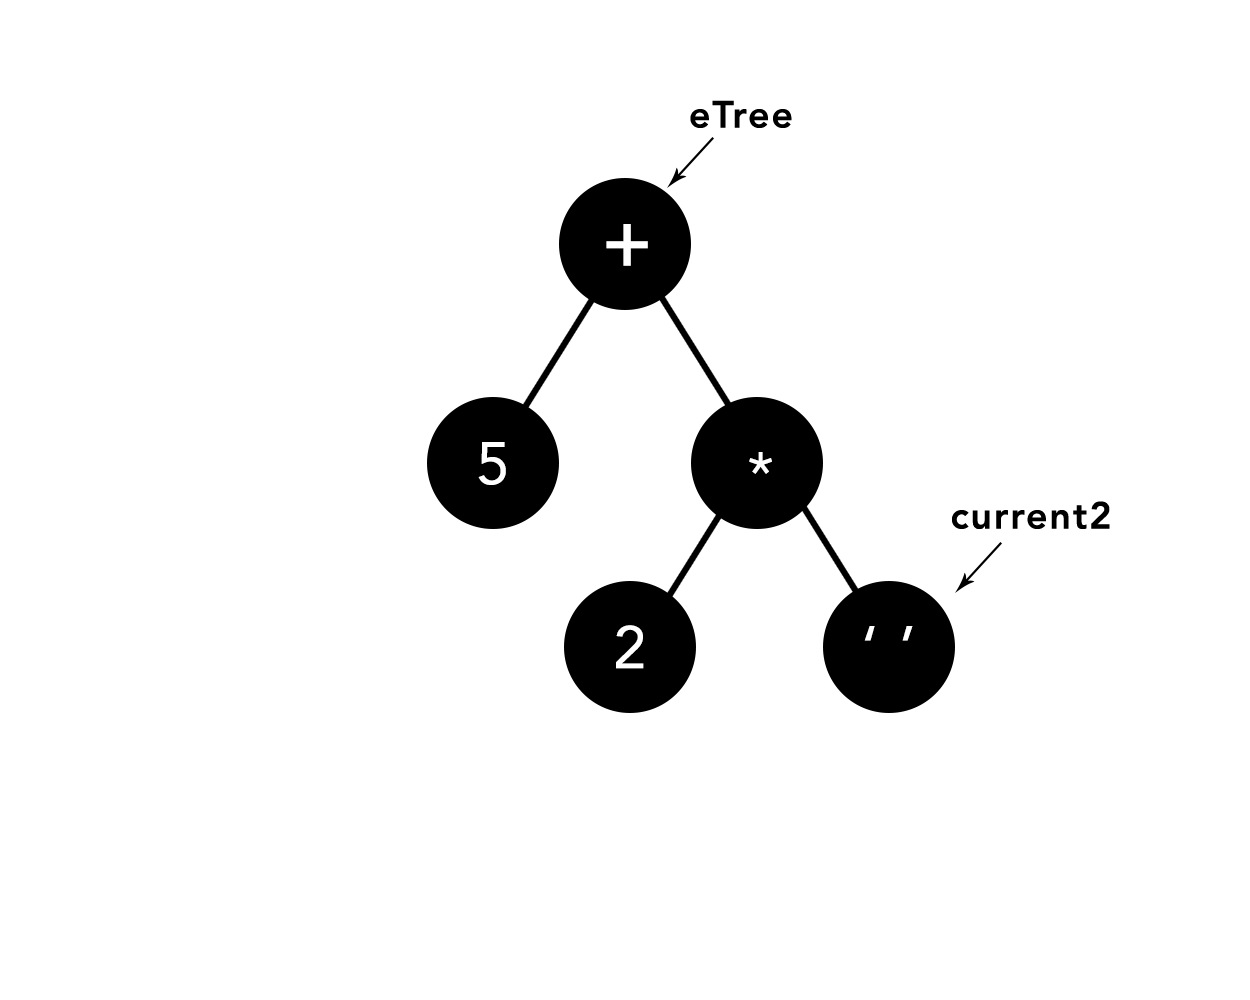
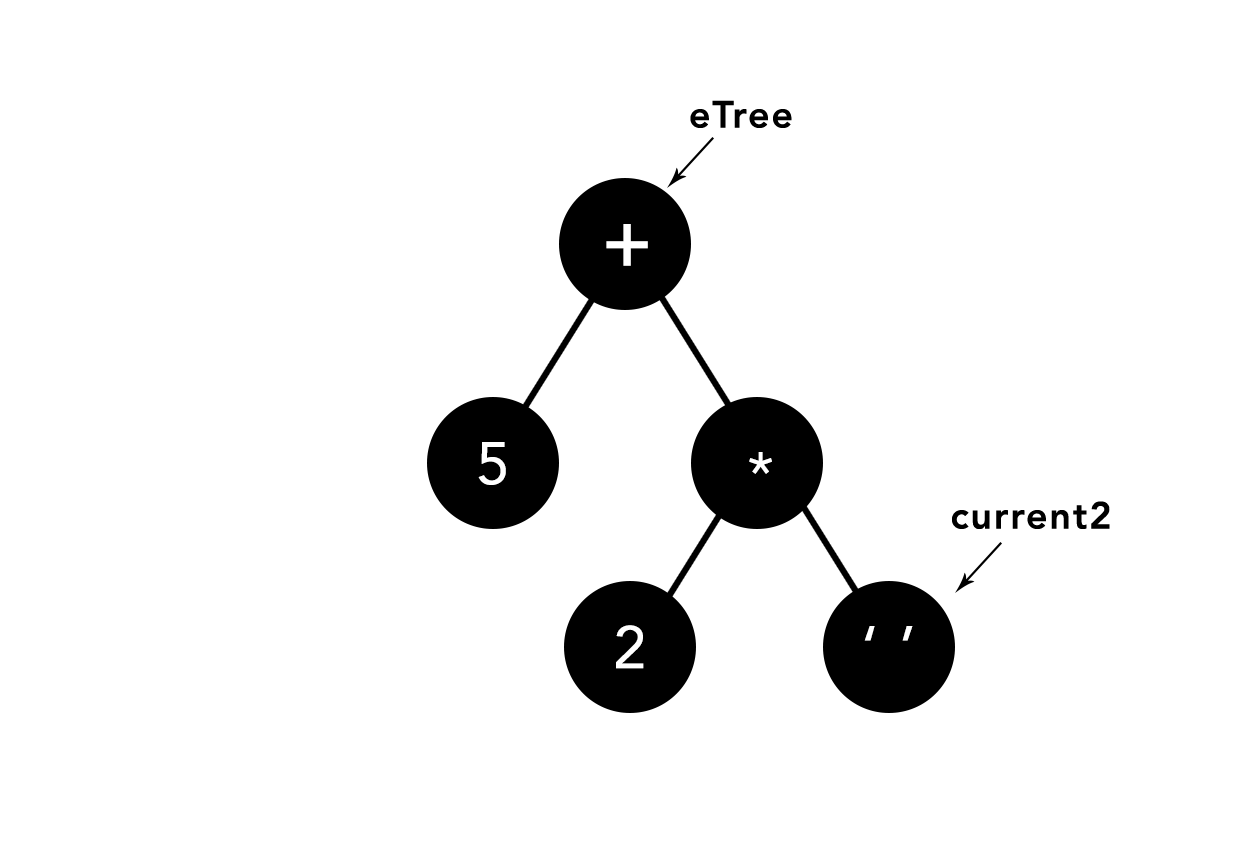
Updating images
Updating images background, for better display in the README.md file

Changed region(s): [[0.3432, 0.0918, 0.9048, 0.8565], [0.7488, 0.4894, 0.9048, 0.5506]]

diff --git a/README.md b/README.md
@@ -43,56 +43,56 @@ Here's a quick visual example of what is really happening:
 <br>
 
 ## starting off by taking the first sub-expression, implementing it manually
-<img style="background-color: white" src="DemoImages/1.png" />
+<img src="DemoImages/1.png" />
 
 ## given an operator, we create a temporary tree with the operator as its root value, inserting a right child pointed at by `current2`
 
-<img style="background-color: white" src="DemoImages/2.png" />
+<img src="DemoImages/2.png" />
 
 ## now lets check the precedence
 `The operator * has higher precedence than +`
 
-<img style="background-color: white" src="DemoImages/3.0.png" />
+<img src="DemoImages/3.0.png" />
 
 ## In such case, we do the following steps:
 
-<img style="background-color: white" src="DemoImages/3.1.png" />
-<img style="background-color: white" src="DemoImages/3.2.png" />
-<img style="background-color: white" src="DemoImages/3.3.png" />
+<img src="DemoImages/3.1.png" />
+<img src="DemoImages/3.2.png" />
+<img src="DemoImages/3.3.png" />
 
 ## we are now left off at this **state**: 
 
-<img style="background-color: white" src="DemoImages/4.png" />
+<img src="DemoImages/4.png" />
 
 ## given an operand, we will store it in the position pointed at by `current2`
 
-<img style="background-color: white" src="DemoImages/4.1.png" />
+<img src="DemoImages/4.1.png" />
 
 ## here's the current **state** of our tree:
-<img style="background-color: white" src="DemoImages/4.2.png" />
+<img src="DemoImages/4.2.png" />
 
 ## given another operator, we create a temporary tree with the operator as its root value, inserting a right child pointed at by `current2`, once again.
 
-<img style="background-color: white" src="DemoImages/5.png" />
+<img src="DemoImages/5.png" />
 
 ## well, this time the operator stored at `t` or the `+` operator, has lower precedence. In such case, we do the following steps: 
 
-<img style="background-color: white" src="DemoImages/6.png" />
+<img src="DemoImages/6.png" />
 
 
-<img style="background-color: white" src="DemoImages/6.1.png" />
-<img style="background-color: white" src="DemoImages/6.2.png" />
-<img style="background-color: white" src="DemoImages/6.3.png" />
-<img style="background-color: white" src="DemoImages/6.4.png" />
-<img style="background-color: white" src="DemoImages/6.5.png" />
+<img src="DemoImages/6.1.png" />
+<img src="DemoImages/6.2.png" />
+<img src="DemoImages/6.3.png" />
+<img src="DemoImages/6.4.png" />
+<img src="DemoImages/6.5.png" />
 
 ## we are now left off at this **state**, once again
 
-<img style="background-color: white" src="DemoImages/7.png" />
+<img src="DemoImages/7.png" />
 
 ## now, given an operand, store it in the position pointed at by `current2`
 
-<img style="background-color: white" src="DemoImages/7.1.png" />
+<img src="DemoImages/7.1.png" />
 
 <br>
 <br>
@@ -104,7 +104,7 @@ Here's a quick visual example of what is really happening:
 
 ## here's the final state of our uniquely built parse tree:
 
-<img style="background-color: white" src="DemoImages/8.png" />
+<img src="DemoImages/8.png" />
 
 ## and that's about it.
 
